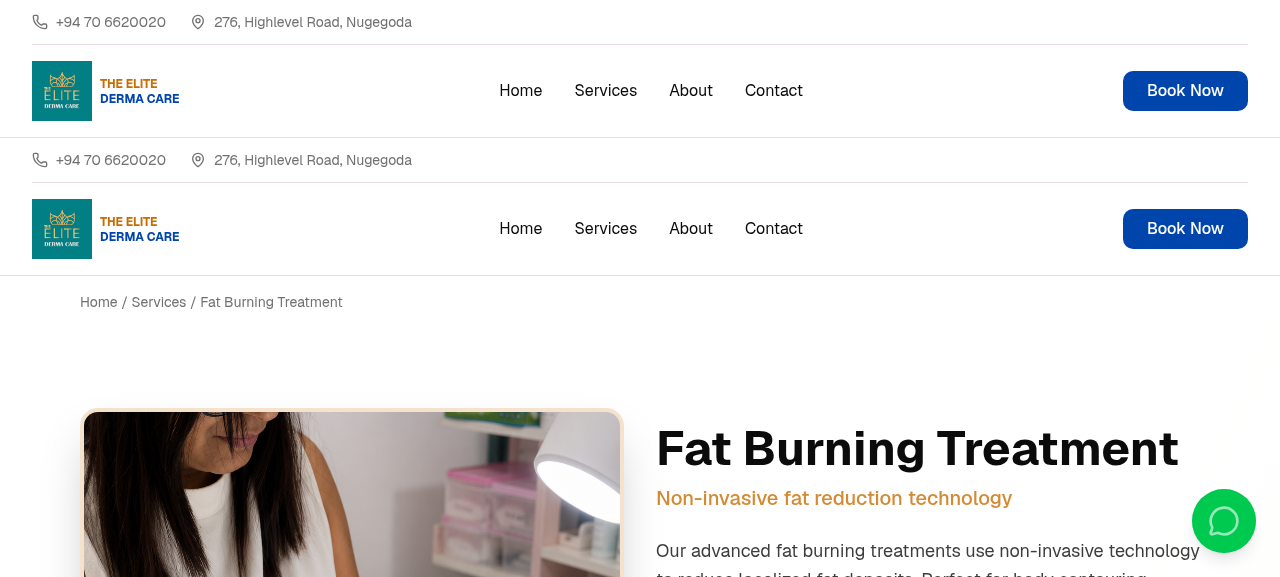
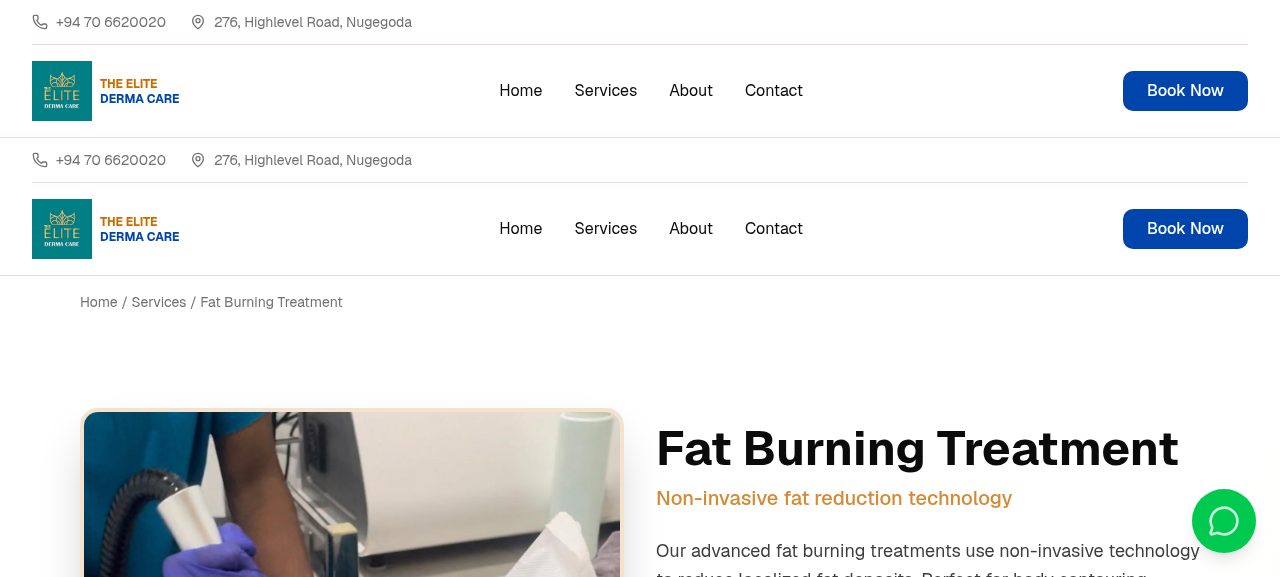
feat: update service images for fat burning, chemical peeling, and PRP

Changed region(s): [[0.0625, 0.6863, 0.5, 1.0], [0.9375, 0.8735, 0.9688, 0.9359]]

diff --git a/lib/services-data.ts b/lib/services-data.ts
@@ -215,7 +215,7 @@ export const services = [
     ],
     duration: "60 minutes",
     recovery: "No downtime",
-    image: "https://hebbkx1anhila5yf.public.blob.vercel-storage.com/Collagen%20Induction-mH27Wtpna2E4MbrQ2NmcwDpiR4dBx6.jpeg",
+    image: "https://hebbkx1anhila5yf.public.blob.vercel-storage.com/PRP-xInY1VxnEIlkC9PVgOuD75y8fd9Ojv.jpg",
   },
   {
     id: "chemical-peeling",
@@ -233,7 +233,7 @@ export const services = [
     ],
     duration: "20-30 minutes",
     recovery: "3-7 days",
-    image: "https://hebbkx1anhila5yf.public.blob.vercel-storage.com/Pigmentation%20Treatment-SWgK4rNYySgRfxZNCFv1BGiBESVVvt.jpeg",
+    image: "https://hebbkx1anhila5yf.public.blob.vercel-storage.com/Chemical%20Peeling-QhjwWzYHH3nkFEJ60m9XWe1X136YCG.jpg",
   },
   {
     id: "wart-removal",
@@ -267,7 +267,7 @@ export const services = [
     ],
     duration: "45-60 minutes",
     recovery: "None",
-    image: "https://hebbkx1anhila5yf.public.blob.vercel-storage.com/Laser%20Hair%20removal-yzwOJpnJxKLLJvtGUyMisF3FdIGOgt.png",
+    image: "https://hebbkx1anhila5yf.public.blob.vercel-storage.com/Fat%20Burning%20-YXnxdPPFqfyWx0sSf7l08zBzfEtROY.jpg",
   },
 ];
 
